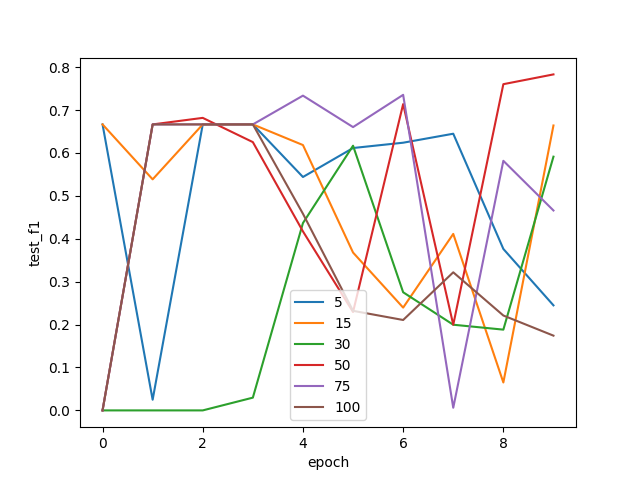
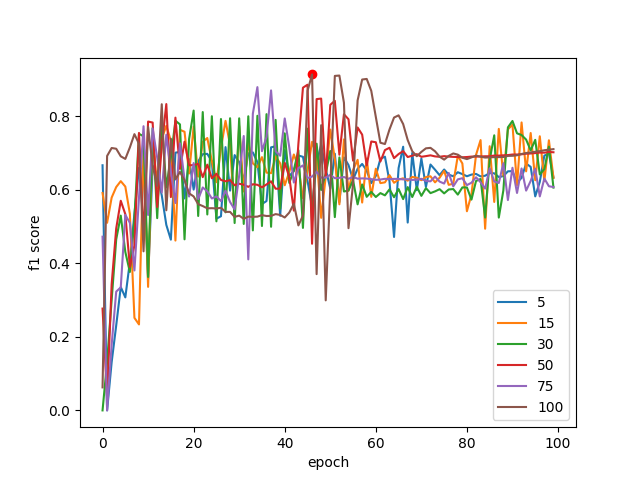
add min/max point to plots

diff --git a/plots.py b/plots.py
@@ -1,11 +1,27 @@
+import numpy as np
 import pandas as pd
 import matplotlib.pyplot as plt
 
 if __name__ == "__main__":
 
-    for file in ['train_loss.csv', 'train_f1.csv', 'test_loss.csv', 'test_f1.csv']:
+    for file in ['train_loss.csv', 'test_loss.csv']:
         df = pd.read_csv(file)
         df = df.iloc[:, 1:]
-        df.plot(xlabel='epoch', ylabel=file[:-4])
+        df.plot(xlabel='epoch', ylabel='loss')
+
+        minimum = np.min(df.values)
+        index = np.where(df.min() == minimum)[0]
+        plt.scatter(df[::-1].idxmin()[index][0], minimum, c='r')
+        plt.savefig('plots/' + file[:-4] + '.png')
+        plt.show()
+
+    for file in ['train_f1.csv', 'test_f1.csv']:
+        df = pd.read_csv(file)
+        df = df.iloc[:, 1:]
+        df.plot(xlabel='epoch', ylabel='f1 score')
+
+        maximum = np.max(df.values)
+        index = np.where(df.max() == maximum)[0]
+        plt.scatter(df[::-1].idxmax()[index][0], maximum, c='r')
         plt.savefig('plots/' + file[:-4] + '.png')
         plt.show()
